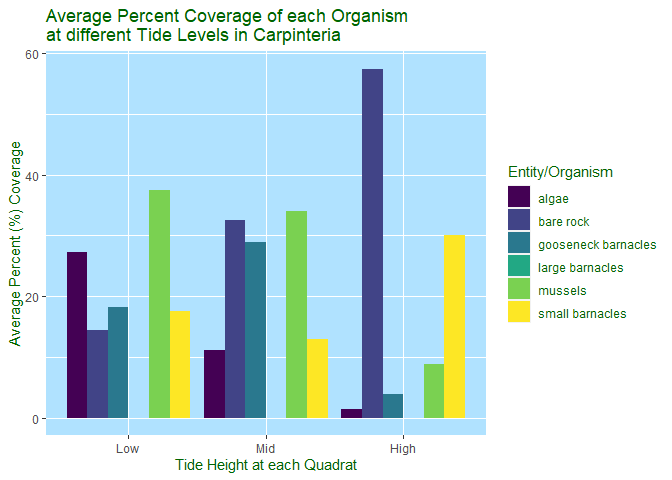
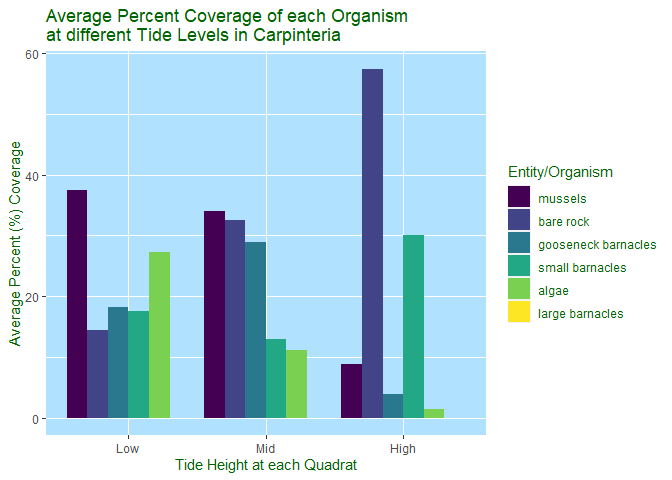
made edits to homework so plot would show descending bars

diff --git a/Week_11/scripts/Homework_Factors.html b/Week_11/scripts/Homework_Factors.html
@@ -263,9 +263,14 @@ statistics, and convert the quadrat to factors.</p>
 <span id="cb7-16"><a href="#cb7-16" aria-hidden="true" tabindex="-1"></a>  <span class="co"># pivots data longer so we can easily plot quadrat vs average % coverage for each organism/entity</span></span>
 <span id="cb7-17"><a href="#cb7-17" aria-hidden="true" tabindex="-1"></a>  <span class="fu">pivot_longer</span>(<span class="at">cols =</span> <span class="fu">c</span>(bare_rock, algae,mussels,small_barnacles,large_barnacles,gooseneck_barnacles),</span>
 <span id="cb7-18"><a href="#cb7-18" aria-hidden="true" tabindex="-1"></a>               <span class="at">names_to =</span> <span class="st">&quot;entity&quot;</span>,</span>
-<span id="cb7-19"><a href="#cb7-19" aria-hidden="true" tabindex="-1"></a>               <span class="at">values_to =</span> <span class="st">&quot;avg_coverage&quot;</span>)</span>
-<span id="cb7-20"><a href="#cb7-20" aria-hidden="true" tabindex="-1"></a></span>
-<span id="cb7-21"><a href="#cb7-21" aria-hidden="true" tabindex="-1"></a><span class="fu">view</span>(tidal_summary)</span></code></pre></div>
+<span id="cb7-19"><a href="#cb7-19" aria-hidden="true" tabindex="-1"></a>               <span class="at">values_to =</span> <span class="st">&quot;avg_coverage&quot;</span>) <span class="sc">%&gt;%</span> </span>
+<span id="cb7-20"><a href="#cb7-20" aria-hidden="true" tabindex="-1"></a>  </span>
+<span id="cb7-21"><a href="#cb7-21" aria-hidden="true" tabindex="-1"></a>  <span class="co"># replaces all underscores with spaces for nice looking legend items</span></span>
+<span id="cb7-22"><a href="#cb7-22" aria-hidden="true" tabindex="-1"></a>  <span class="fu">mutate</span>(<span class="at">entity =</span> <span class="fu">str_replace_all</span>(entity, <span class="at">pattern =</span> <span class="st">&quot;_&quot;</span>, <span class="at">replacement =</span> <span class="st">&quot; &quot;</span>)) <span class="sc">%&gt;%</span> </span>
+<span id="cb7-23"><a href="#cb7-23" aria-hidden="true" tabindex="-1"></a>  <span class="co"># makes each organism a factor so we can order them nicely on the plot</span></span>
+<span id="cb7-24"><a href="#cb7-24" aria-hidden="true" tabindex="-1"></a>  <span class="fu">mutate</span>(<span class="at">entity =</span> <span class="fu">factor</span>(entity))</span>
+<span id="cb7-25"><a href="#cb7-25" aria-hidden="true" tabindex="-1"></a></span>
+<span id="cb7-26"><a href="#cb7-26" aria-hidden="true" tabindex="-1"></a><span class="fu">view</span>(tidal_summary)</span></code></pre></div>
 <p>This is just to check that the levels are exactly as we want them to
 be:</p>
 <div class="sourceCode" id="cb8"><pre class="sourceCode r"><code class="sourceCode r"><span id="cb8-1"><a href="#cb8-1" aria-hidden="true" tabindex="-1"></a><span class="co"># looks at levels of quadrat</span></span>
@@ -274,37 +279,32 @@ be:</p>
 </div>
 <div id="plot" class="section level1">
 <h1>Plot</h1>
-<p>Before plotting, I am going to change the organism names back to
-their original names just for the sake of the plot looking clean.</p>
-<div class="sourceCode" id="cb10"><pre class="sourceCode r"><code class="sourceCode r"><span id="cb10-1"><a href="#cb10-1" aria-hidden="true" tabindex="-1"></a><span class="co"># replaces all underscores with spaces for nice looking legend items</span></span>
-<span id="cb10-2"><a href="#cb10-2" aria-hidden="true" tabindex="-1"></a>tidal_summary <span class="ot">&lt;-</span> tidal_summary <span class="sc">%&gt;%</span> </span>
-<span id="cb10-3"><a href="#cb10-3" aria-hidden="true" tabindex="-1"></a>  <span class="fu">mutate</span>(<span class="at">entity =</span> <span class="fu">str_replace_all</span>(entity, <span class="at">pattern =</span> <span class="st">&quot;_&quot;</span>, <span class="at">replacement =</span> <span class="st">&quot; &quot;</span>))</span></code></pre></div>
 <p>Here we will now plot our summary intertidal data</p>
-<div class="sourceCode" id="cb11"><pre class="sourceCode r"><code class="sourceCode r"><span id="cb11-1"><a href="#cb11-1" aria-hidden="true" tabindex="-1"></a><span class="co"># Generates plot</span></span>
-<span id="cb11-2"><a href="#cb11-2" aria-hidden="true" tabindex="-1"></a>TidalPlot <span class="ot">&lt;-</span> <span class="fu">ggplot</span>(<span class="at">data =</span> tidal_summary, </span>
-<span id="cb11-3"><a href="#cb11-3" aria-hidden="true" tabindex="-1"></a>                    <span class="at">mapping =</span> <span class="fu">aes</span>(<span class="at">x =</span> quadrat,</span>
-<span id="cb11-4"><a href="#cb11-4" aria-hidden="true" tabindex="-1"></a>                                  <span class="at">y =</span> avg_coverage,</span>
-<span id="cb11-5"><a href="#cb11-5" aria-hidden="true" tabindex="-1"></a>                                  <span class="at">fill =</span> entity))<span class="sc">+</span></span>
-<span id="cb11-6"><a href="#cb11-6" aria-hidden="true" tabindex="-1"></a>  </span>
-<span id="cb11-7"><a href="#cb11-7" aria-hidden="true" tabindex="-1"></a>  <span class="fu">geom_bar</span>(<span class="at">position =</span> <span class="st">&quot;dodge&quot;</span>, <span class="at">stat =</span> <span class="st">&quot;identity&quot;</span>)<span class="sc">+</span> <span class="co"># specifies bar plot</span></span>
-<span id="cb11-8"><a href="#cb11-8" aria-hidden="true" tabindex="-1"></a>  </span>
-<span id="cb11-9"><a href="#cb11-9" aria-hidden="true" tabindex="-1"></a>  <span class="co"># specifies labels of plot elements</span></span>
-<span id="cb11-10"><a href="#cb11-10" aria-hidden="true" tabindex="-1"></a>  <span class="fu">labs</span>(<span class="at">x =</span> <span class="st">&quot;Tide Height at each Quadrat&quot;</span>,</span>
-<span id="cb11-11"><a href="#cb11-11" aria-hidden="true" tabindex="-1"></a>       <span class="at">y =</span> <span class="st">&quot;Average Percent (%) Coverage&quot;</span>,</span>
-<span id="cb11-12"><a href="#cb11-12" aria-hidden="true" tabindex="-1"></a>       <span class="at">fill =</span> <span class="st">&quot;Entity/Organism&quot;</span>,</span>
-<span id="cb11-13"><a href="#cb11-13" aria-hidden="true" tabindex="-1"></a>       <span class="at">title =</span> <span class="st">&quot;Average Percent Coverage of each Organism</span></span>
-<span id="cb11-14"><a href="#cb11-14" aria-hidden="true" tabindex="-1"></a><span class="st">at different Tide Levels in Carpinteria&quot;</span>)<span class="sc">+</span></span>
-<span id="cb11-15"><a href="#cb11-15" aria-hidden="true" tabindex="-1"></a>  </span>
-<span id="cb11-16"><a href="#cb11-16" aria-hidden="true" tabindex="-1"></a>  <span class="co"># color-blind friendly colors</span></span>
-<span id="cb11-17"><a href="#cb11-17" aria-hidden="true" tabindex="-1"></a>  <span class="fu">scale_fill_viridis_d</span>()<span class="sc">+</span></span>
-<span id="cb11-18"><a href="#cb11-18" aria-hidden="true" tabindex="-1"></a>  </span>
-<span id="cb11-19"><a href="#cb11-19" aria-hidden="true" tabindex="-1"></a>  <span class="co"># specifies color of plot elements</span></span>
-<span id="cb11-20"><a href="#cb11-20" aria-hidden="true" tabindex="-1"></a>  <span class="fu">theme</span>(<span class="at">panel.background =</span> <span class="fu">element_rect</span>(<span class="at">fill =</span> <span class="st">&quot;lightskyblue1&quot;</span>),</span>
-<span id="cb11-21"><a href="#cb11-21" aria-hidden="true" tabindex="-1"></a>        <span class="at">text =</span> <span class="fu">element_text</span>(<span class="at">color =</span> <span class="st">&quot;darkgreen&quot;</span>))</span>
-<span id="cb11-22"><a href="#cb11-22" aria-hidden="true" tabindex="-1"></a>  </span>
-<span id="cb11-23"><a href="#cb11-23" aria-hidden="true" tabindex="-1"></a>TidalPlot</span></code></pre></div>
+<div class="sourceCode" id="cb10"><pre class="sourceCode r"><code class="sourceCode r"><span id="cb10-1"><a href="#cb10-1" aria-hidden="true" tabindex="-1"></a><span class="co"># Generates plot</span></span>
+<span id="cb10-2"><a href="#cb10-2" aria-hidden="true" tabindex="-1"></a>TidalPlot <span class="ot">&lt;-</span> <span class="fu">ggplot</span>(<span class="at">data =</span> tidal_summary, </span>
+<span id="cb10-3"><a href="#cb10-3" aria-hidden="true" tabindex="-1"></a>                    <span class="at">mapping =</span> <span class="fu">aes</span>(<span class="at">x =</span> quadrat,</span>
+<span id="cb10-4"><a href="#cb10-4" aria-hidden="true" tabindex="-1"></a>                                  <span class="at">y =</span> avg_coverage,</span>
+<span id="cb10-5"><a href="#cb10-5" aria-hidden="true" tabindex="-1"></a>                                  <span class="at">fill =</span> <span class="fu">fct_reorder</span>(entity, avg_coverage, <span class="at">.desc =</span> <span class="cn">TRUE</span>)))<span class="sc">+</span> <span class="co"># re-orders entity by descending average coverage</span></span>
+<span id="cb10-6"><a href="#cb10-6" aria-hidden="true" tabindex="-1"></a>  </span>
+<span id="cb10-7"><a href="#cb10-7" aria-hidden="true" tabindex="-1"></a>  <span class="fu">geom_bar</span>(<span class="at">position =</span> <span class="st">&quot;dodge&quot;</span>, <span class="at">stat =</span> <span class="st">&quot;identity&quot;</span>)<span class="sc">+</span> <span class="co"># specifies bar plot</span></span>
+<span id="cb10-8"><a href="#cb10-8" aria-hidden="true" tabindex="-1"></a>  </span>
+<span id="cb10-9"><a href="#cb10-9" aria-hidden="true" tabindex="-1"></a>  <span class="co"># specifies labels of plot elements</span></span>
+<span id="cb10-10"><a href="#cb10-10" aria-hidden="true" tabindex="-1"></a>  <span class="fu">labs</span>(<span class="at">x =</span> <span class="st">&quot;Tide Height at each Quadrat&quot;</span>,</span>
+<span id="cb10-11"><a href="#cb10-11" aria-hidden="true" tabindex="-1"></a>       <span class="at">y =</span> <span class="st">&quot;Average Percent (%) Coverage&quot;</span>,</span>
+<span id="cb10-12"><a href="#cb10-12" aria-hidden="true" tabindex="-1"></a>       <span class="at">fill =</span> <span class="st">&quot;Entity/Organism&quot;</span>,</span>
+<span id="cb10-13"><a href="#cb10-13" aria-hidden="true" tabindex="-1"></a>       <span class="at">title =</span> <span class="st">&quot;Average Percent Coverage of each Organism</span></span>
+<span id="cb10-14"><a href="#cb10-14" aria-hidden="true" tabindex="-1"></a><span class="st">at different Tide Levels in Carpinteria&quot;</span>)<span class="sc">+</span></span>
+<span id="cb10-15"><a href="#cb10-15" aria-hidden="true" tabindex="-1"></a>  </span>
+<span id="cb10-16"><a href="#cb10-16" aria-hidden="true" tabindex="-1"></a>  <span class="co"># color-blind friendly colors</span></span>
+<span id="cb10-17"><a href="#cb10-17" aria-hidden="true" tabindex="-1"></a>  <span class="fu">scale_fill_viridis_d</span>()<span class="sc">+</span></span>
+<span id="cb10-18"><a href="#cb10-18" aria-hidden="true" tabindex="-1"></a>  </span>
+<span id="cb10-19"><a href="#cb10-19" aria-hidden="true" tabindex="-1"></a>  <span class="co"># specifies color of plot elements</span></span>
+<span id="cb10-20"><a href="#cb10-20" aria-hidden="true" tabindex="-1"></a>  <span class="fu">theme</span>(<span class="at">panel.background =</span> <span class="fu">element_rect</span>(<span class="at">fill =</span> <span class="st">&quot;lightskyblue1&quot;</span>),</span>
+<span id="cb10-21"><a href="#cb10-21" aria-hidden="true" tabindex="-1"></a>        <span class="at">text =</span> <span class="fu">element_text</span>(<span class="at">color =</span> <span class="st">&quot;darkgreen&quot;</span>))</span>
+<span id="cb10-22"><a href="#cb10-22" aria-hidden="true" tabindex="-1"></a>  </span>
+<span id="cb10-23"><a href="#cb10-23" aria-hidden="true" tabindex="-1"></a>TidalPlot</span></code></pre></div>
 <div class="figure" style="text-align: center">
[2 lines of base64/hex data omitted]
 <p class="caption">
 This plot shows the average percent coverage of each organism (and bare
 rock) on rocks at each tide height (Low, Mid, High) at Carpinteria,
